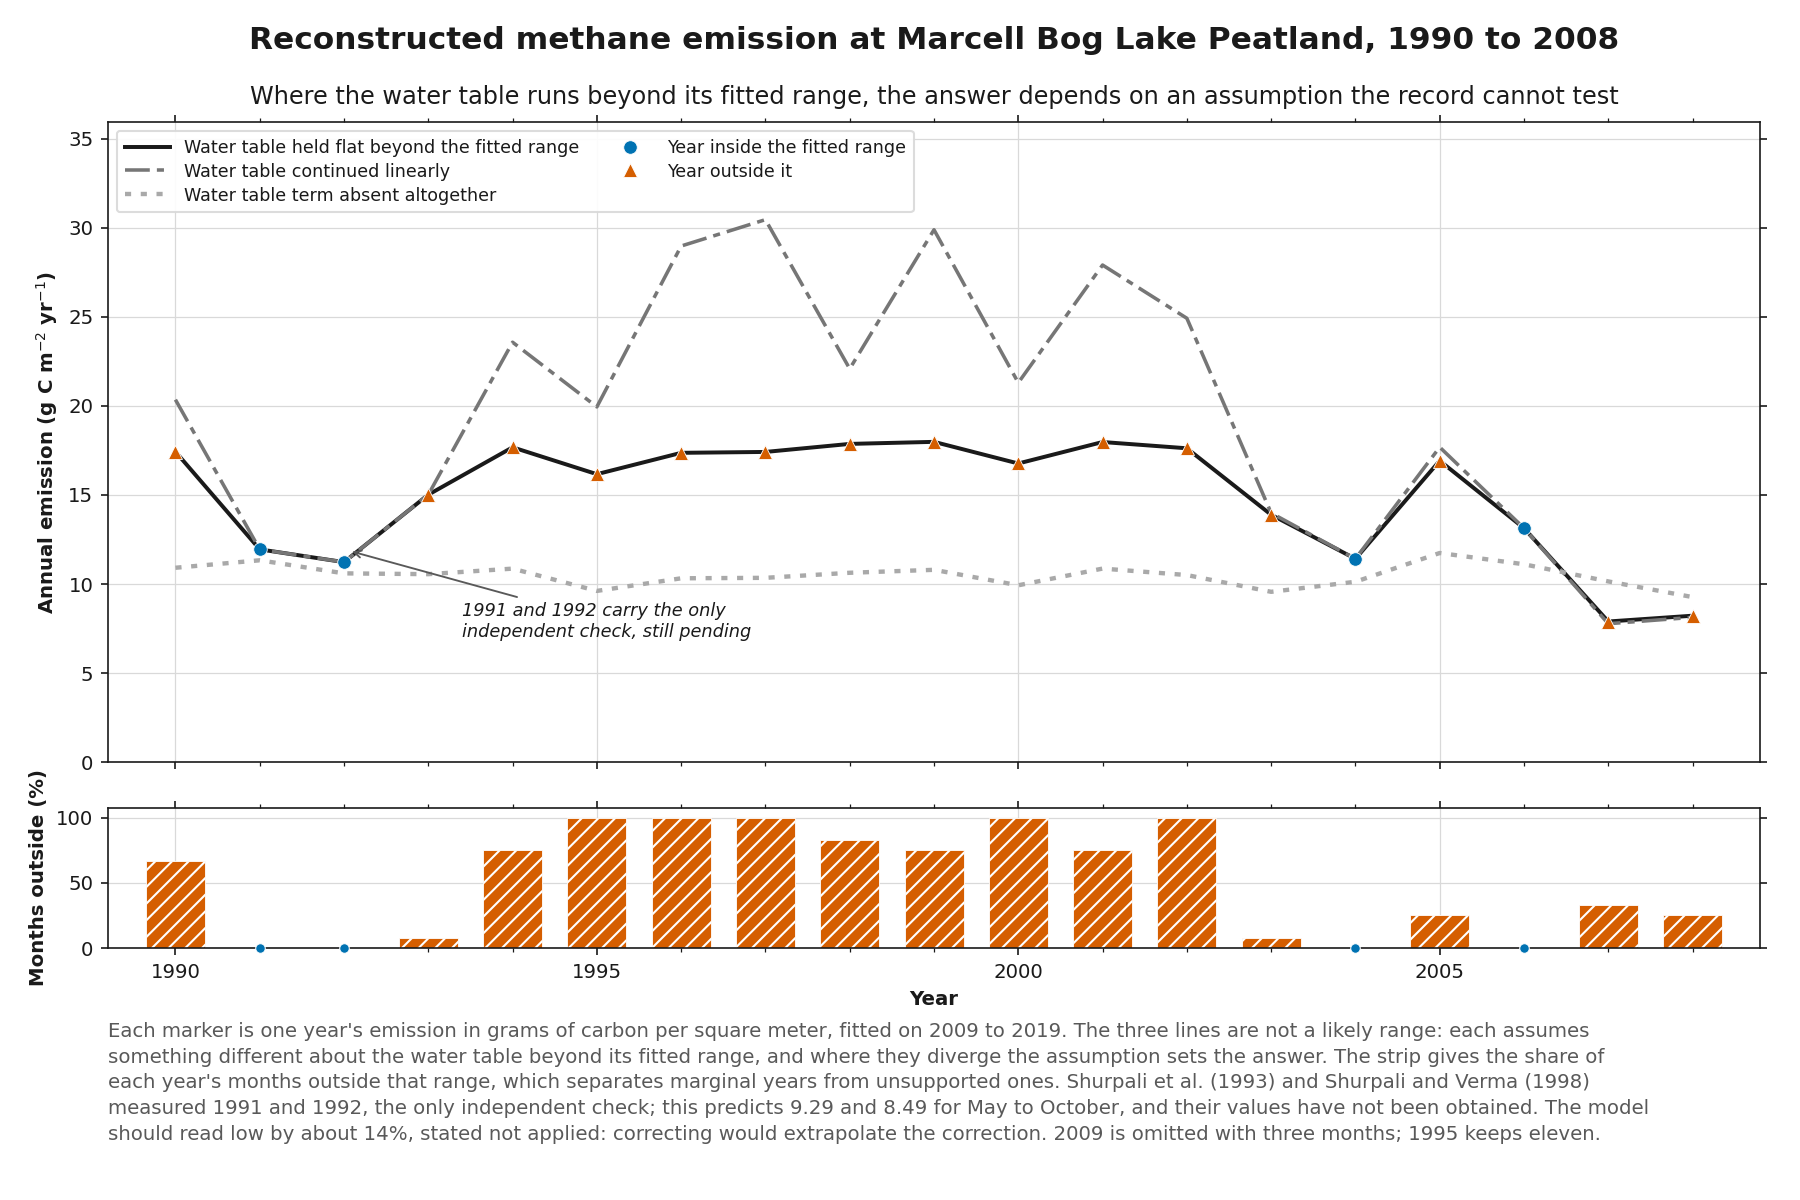
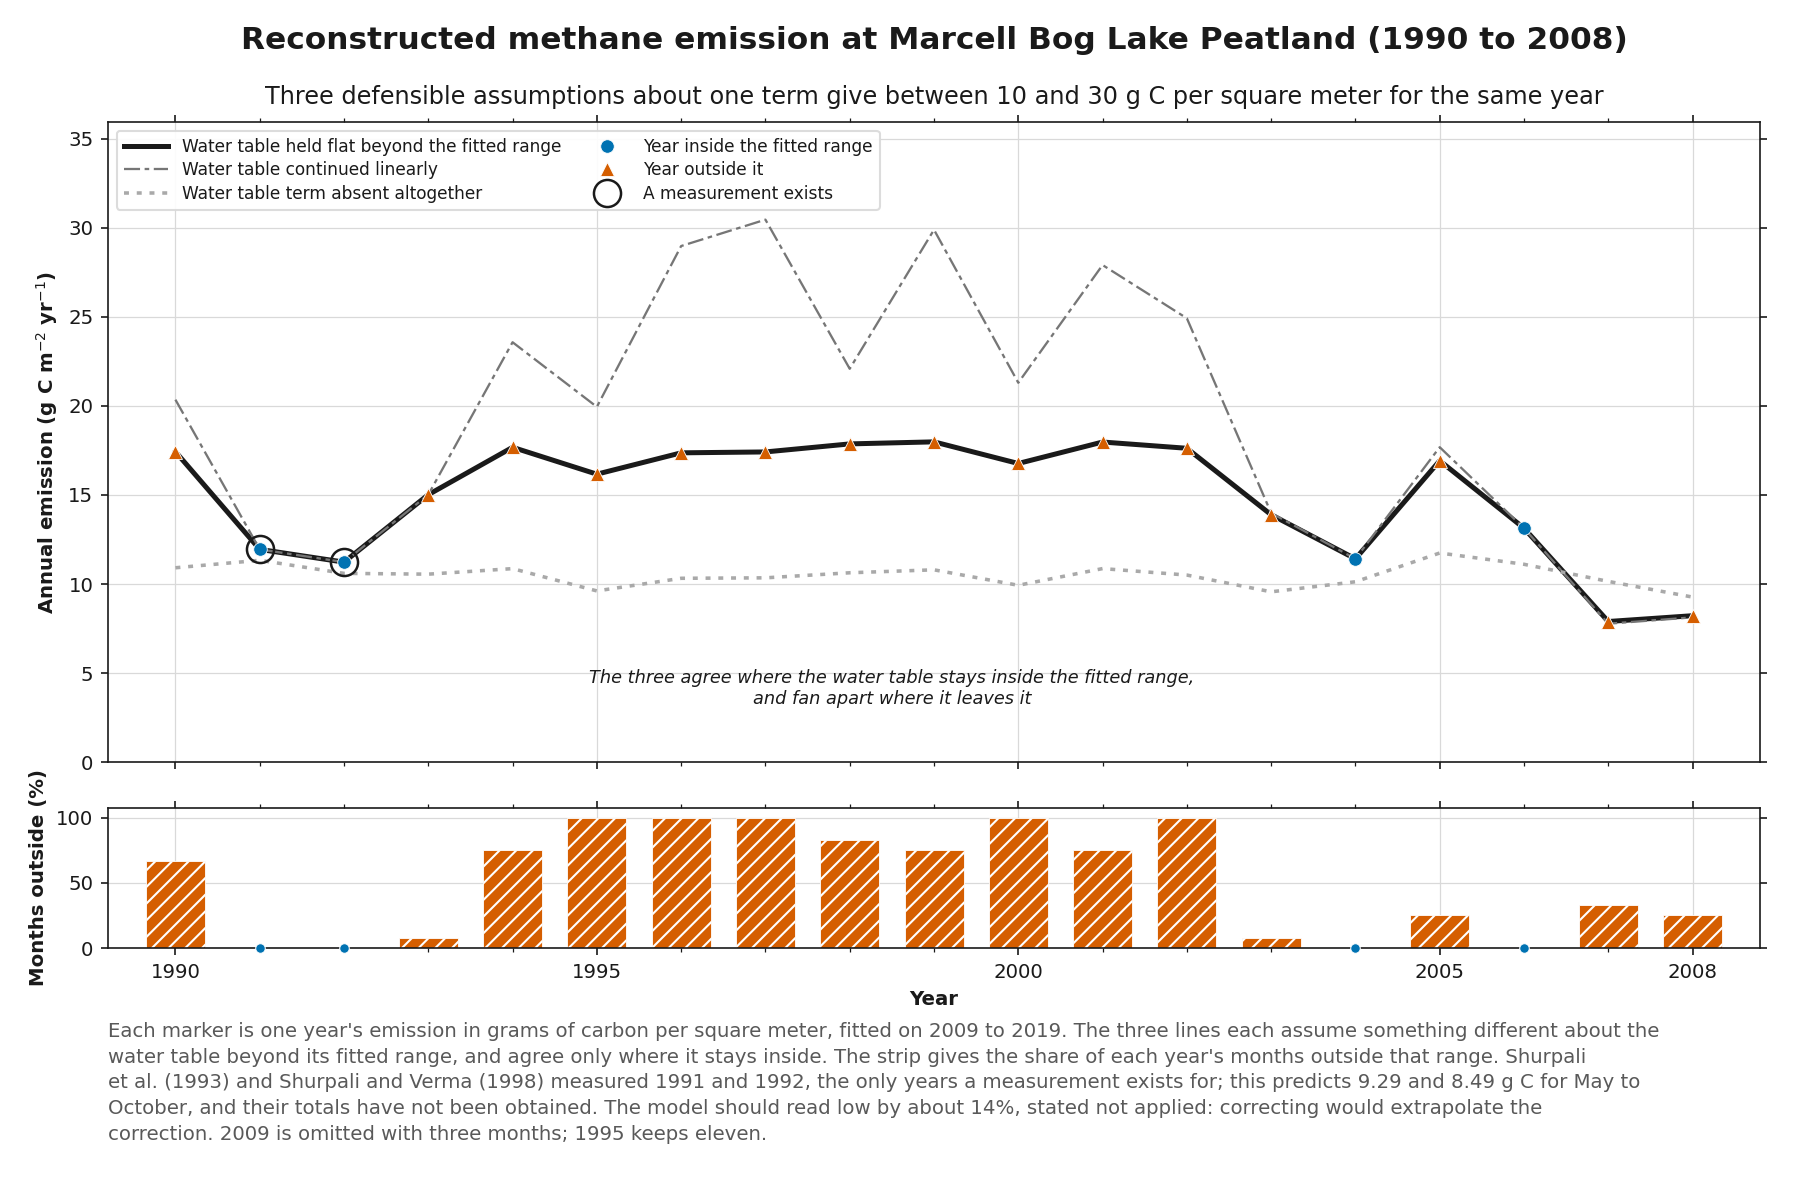
Weight the reconstruction lines by defensibility

diff --git a/src/study/figures.py b/src/study/figures.py
@@ -146,28 +146,31 @@ WATER_TABLE_ASSUMPTIONS = {
     "reduced": "Water table term absent altogether",
 }
 
+#: The two years a measurement of this peatland exists for, and the only years
+#: in twenty where this reconstruction could ever be tested against one.
+MEASURED_YEARS = (1991, 1992)
+
 #: The reconstruction runs to 2009-03. A three-month year cannot be plotted
 #: beside twelve-month years, so the panel stops at 2008.
 LAST_PLOTTED_YEAR = 2008
 
 RECONSTRUCTION_TEXT = ps.FigureText(
-    title="Reconstructed methane emission at Marcell Bog Lake Peatland, 1990 to 2008",
+    title="Reconstructed methane emission at Marcell Bog Lake Peatland (1990 to 2008)",
     subtitle=(
-        "Where the water table runs beyond its fitted range, the answer depends on an "
-        "assumption the record cannot test"
+        "Three defensible assumptions about one term give between 10 and 30 g C per "
+        "square meter for the same year"
     ),
     description=(
         "Each marker is one year's emission in grams of carbon per square meter, "
-        "fitted on 2009 to 2019. The three lines are not a likely range: each "
-        "assumes something different about the water table beyond its fitted range, "
-        "and where they diverge the assumption sets the answer. The strip gives the "
-        "share of each year's months outside that range, which separates marginal "
-        "years from unsupported ones. Shurpali et al. (1993) and Shurpali and Verma "
-        "(1998) measured 1991 and 1992, the only independent check; this predicts "
-        "9.29 and 8.49 for May to October, and their values have not been obtained. "
-        "The model should read low by about 14%, stated not applied: correcting "
-        "would extrapolate the correction. 2009 is omitted with three months; 1995 "
-        "keeps eleven."
+        "fitted on 2009 to 2019. The three lines each assume something different "
+        "about the water table beyond its fitted range, and agree only where it "
+        "stays inside. The strip gives the share of each year's months outside that "
+        "range. Shurpali et al. (1993) and Shurpali and Verma (1998) measured 1991 "
+        "and 1992, the only years a measurement exists for; this predicts 9.29 and "
+        "8.49 g C for May to October, and their totals have not been obtained. The "
+        "model should read low by about 14%, stated not applied: correcting would "
+        "extrapolate the correction. 2009 is omitted with three months; 1995 keeps "
+        "eleven."
     ),
     emphasize=(),
 )
@@ -181,7 +184,7 @@ def reconstruction_series(annual: pd.DataFrame) -> Figure:
     this study exists to refuse: the spread is what the choice of assumption
     buys, not a probability.
     """
-    from matplotlib.ticker import MultipleLocator
+    from matplotlib.ticker import FixedLocator, MultipleLocator
 
     frame = annual[annual["year"] <= LAST_PLOTTED_YEAR].copy()
     years = frame["year"].to_numpy()
@@ -204,14 +207,22 @@ def reconstruction_series(annual: pd.DataFrame) -> Figure:
     ps.support_scatter(ax, years[~inside], frame["clamped"].to_numpy()[~inside],
                        inside=False, label="Year outside it", markersize=7.0)
 
+    check = frame[frame["year"].isin(MEASURED_YEARS)]
+    ax.plot(check["year"], check["clamped"], linestyle="none", marker="o",
+            markersize=13, markerfacecolor="none", markeredgecolor=ps.INK,
+            markeredgewidth=1.2, zorder=3, label="A measurement exists")
+
     ax.set_ylabel(ps.axis_label("Annual emission", "g C m$^{-2}$ yr$^{-1}$"))
     ax.set_ylim(0, frame[list(WATER_TABLE_ASSUMPTIONS)].to_numpy().max() * 1.18)
-    ax.xaxis.set_major_locator(MultipleLocator(5))
+    ticks = [y for y in range(int(years.min()), int(years.max()) + 1, 5)]
+    if years.max() not in ticks:
+        ticks.append(int(years.max()))
+    ax.xaxis.set_major_locator(FixedLocator(ticks))
     ax.xaxis.set_minor_locator(MultipleLocator(1))
     ax.tick_params(labelbottom=False)
     ps.mirror_ticks(ax)
-    ps.legend(ax, loc="upper left", fontsize=8.4, borderpad=0.45, labelspacing=0.34,
-              handlelength=2.6, ncols=2, columnspacing=1.6)
+    ps.legend(ax, loc="upper left", fontsize=8.2, borderpad=0.42, labelspacing=0.32,
+              handlelength=2.6, ncols=2, columnspacing=1.4)
 
     share = frame["pct_months_outside"].to_numpy()
     # A year wholly inside has a bar of zero height. Marking those years on the
@@ -231,12 +242,13 @@ def reconstruction_series(annual: pd.DataFrame) -> Figure:
     strip.xaxis.set_minor_locator(MultipleLocator(1))
     ps.mirror_ticks(strip)
 
-    check = frame[frame["year"].isin((1991, 1992))]
-    ps.annotate(
-        ax,
-        "1991 and 1992 carry the only\nindependent check, still pending",
-        xy=(1992, float(check["clamped"].max())),
-        xytext=(1993.4, float(check["clamped"].max()) * 0.66),
-        ha="left", va="center",
+    # Set under the fan rather than led to it: a leader from clear space to the
+    # middle of the spread would cross every line it is describing.
+    fan = frame.loc[(frame["unclamped"] - frame["reduced"]).idxmax(), "year"]
+    ax.annotate(
+        "The three agree where the water table stays inside the fitted range,\n"
+        "and fan apart where it leaves it",
+        xy=(float(fan) + 1.5, ax.get_ylim()[1] * 0.115), ha="center", va="center",
+        fontsize=ps.ANNOTATION_SIZE, style="italic", color=ps.INK, zorder=5,
     )
     return fig

diff --git a/src/study/plotstyle.py b/src/study/plotstyle.py
@@ -38,13 +38,17 @@ OUTSIDE = "#D55E00"
 
 #: Model variants, achromatic so that hue stays reserved for support status.
 #: Each also takes a line style, so lightness alone never has to carry them.
+#: Weight follows how far each assumption can be defended, not how large an
+#: answer it gives. Continuing the water table term beyond its fitted range is
+#: the assumption the stability test rejects, so it is drawn lightest; left
+#: heavier it dominates the panel by amplitude alone.
 VARIANT = {
-    "clamped": {"color": "#1A1A1A", "linestyle": "-", "linewidth": 1.9},
+    "clamped": {"color": "#1A1A1A", "linestyle": "-", "linewidth": 2.4},
     # Dash-dot rather than dashed: the apparatus tone is also a mid gray and is
     # also drawn dashed, and two dashed grays on one panel would be a standing
     # hazard rather than one this figure happens to avoid.
-    "unclamped": {"color": "#767676", "linestyle": (0, (7, 2, 2, 2)), "linewidth": 1.7},
-    "reduced": {"color": "#A9A9A9", "linestyle": (0, (1.4, 2.2)), "linewidth": 2.1},
+    "unclamped": {"color": "#767676", "linestyle": (0, (7, 2, 2, 2)), "linewidth": 1.1},
+    "reduced": {"color": "#A9A9A9", "linestyle": (0, (1.4, 2.2)), "linewidth": 1.7},
 }
 
 #: Range boundaries and other apparatus. Neutral so it reads as annotation rather

diff --git a/notes/study.md b/notes/study.md
@@ -693,8 +693,46 @@ Biogeochemistry **40**, 1-15. These measured the 1991 and 1992 growing seasons
 at this site, seventeen years before the flux record used here begins, and are
 the only genuinely independent out-of-sample validation available.
 
-This reconstruction gives, for May to October: **1991, 9.16 g C m⁻² (5.87 to
-15.08); 1992, 8.36 g C m⁻² (5.35 to 13.75).**
+This reconstruction gives, for May to October: **1991, 9.29 g C m⁻² (5.84 to
+14.71); 1992, 8.49 g C m⁻² (5.33 to 13.44)**, computed on the adopted 115-month
+window. On the nominal 117-month window the same figures were 9.16 (5.87 to
+15.08) and 8.36 (5.35 to 13.75).
+
+### The published totals, and a consistency check that is not a validation
+
+The seasonal totals remain unobtained. The abstracts give midday flux: about
+1.5 mg CH₄ m⁻² h⁻¹ in late May of both years, 2.5 to 5.5 through early June to
+early July, a peak of 6.5 in mid-July 1991 and of 8.0 three weeks later in 1992,
+with 1992 the wetter and cooler year and a sustained water table drop from late
+July to late August 1991 that may have reduced emission.
+
+Averaging those crudely at roughly 3.5 mg CH₄ m⁻² h⁻¹ across a May to October
+season of 4,416 hours gives about 15.5 g CH₄ m⁻², or **11.6 g C m⁻²**, against
+predictions of 9.29 and 8.49. That is the model reading low by 20% for 1991 and
+27% for 1992.
+
+**This is a consistency check and must not be recorded as a validation.** It
+takes midday values from an abstract and averages them over a season in which
+flux varies by a factor of five, so the arithmetic is indicative at best. What
+can be said is that the direction matches: the bias bands expect the model to
+read low by roughly 14%, and this crude comparison points the same way at a
+similar order. One point cuts in its favour and is worth stating, since it is
+measured rather than assumed: the diurnal cycle at this site explains 0.97% of
+half-hourly variance, so midday flux is a far better stand-in for a daily mean
+here than it would be at most sites.
+
+**Olson et al. (2013) is now the highest-value paper still to obtain.** Its
+Table 2 compares its own budgets against Shurpali and Verma (1998) and Shurpali
+et al. (1995), so obtaining it would yield Shurpali's figures second-hand with a
+citation trail, and it is newer and more accessible than either 1990s paper.
+That is a better route than continuing to chase the originals.
+
+**Shurpali et al. (1995) reports this site emitted 71 g C m⁻² in 1991 and
+absorbed 32 g C m⁻² in 1992.** That is carbon dioxide, not methane, so it
+validates nothing here. It does confirm the two years differed sharply, which
+bears on how informative the pending methane check will be: two years that
+differ in carbon balance by more than a hundred grams are a stronger test of a
+model than two similar ones would be.
 
 The comparison is prepared and pending. The published values have not been
 supplied to this analysis and are not invented here. What makes the pending

diff --git a/figures/README_fragments.md b/figures/README_fragments.md
@@ -14,10 +14,10 @@ Reconstruction means estimating methane emissions for years before measurements 
 
 Panel a is the peatland around the tower, with the wetland polygon the National Wetlands Inventory maps there and a circle at the 200 m over which the site reports its surface uniform. Panel b places the site among the FLUXNET-CH4 network: it is not one of them, so no community gap-filled product exists for it. Panel c is how often the wind blew from each direction over 2009 to 2019, the years the model was fitted on. Flux is discarded from 30 to 200 degrees, where the tower and the upland forest lie. That sector holds 45% of the half-hours that carry a wind direction and 40% of the whole record, and the published product holds no retained flux from it at all.
 
-### Reconstructed methane emission at Marcell Bog Lake Peatland, 1990 to 2008
+### Reconstructed methane emission at Marcell Bog Lake Peatland (1990 to 2008)
 
-![Reconstructed methane emission at Marcell Bog Lake Peatland, 1990 to 2008](figures/reconstruction_series.png)
+![Reconstructed methane emission at Marcell Bog Lake Peatland (1990 to 2008)](figures/reconstruction_series.png)
 
-**Where the water table runs beyond its fitted range, the answer depends on an assumption the record cannot test**
+**Three defensible assumptions about one term give between 10 and 30 g C per square meter for the same year**
 
-Each marker is one year's emission in grams of carbon per square meter, fitted on 2009 to 2019. The three lines are not a likely range: each assumes something different about the water table beyond its fitted range, and where they diverge the assumption sets the answer. The strip gives the share of each year's months outside that range, which separates marginal years from unsupported ones. Shurpali et al. (1993) and Shurpali and Verma (1998) measured 1991 and 1992, the only independent check; this predicts 9.29 and 8.49 for May to October, and their values have not been obtained. The model should read low by about 14%, stated not applied: correcting would extrapolate the correction. 2009 is omitted with three months; 1995 keeps eleven.
+Each marker is one year's emission in grams of carbon per square meter, fitted on 2009 to 2019. The three lines each assume something different about the water table beyond its fitted range, and agree only where it stays inside. The strip gives the share of each year's months outside that range. Shurpali et al. (1993) and Shurpali and Verma (1998) measured 1991 and 1992, the only years a measurement exists for; this predicts 9.29 and 8.49 g C for May to October, and their totals have not been obtained. The model should read low by about 14%, stated not applied: correcting would extrapolate the correction. 2009 is omitted with three months; 1995 keeps eleven.
